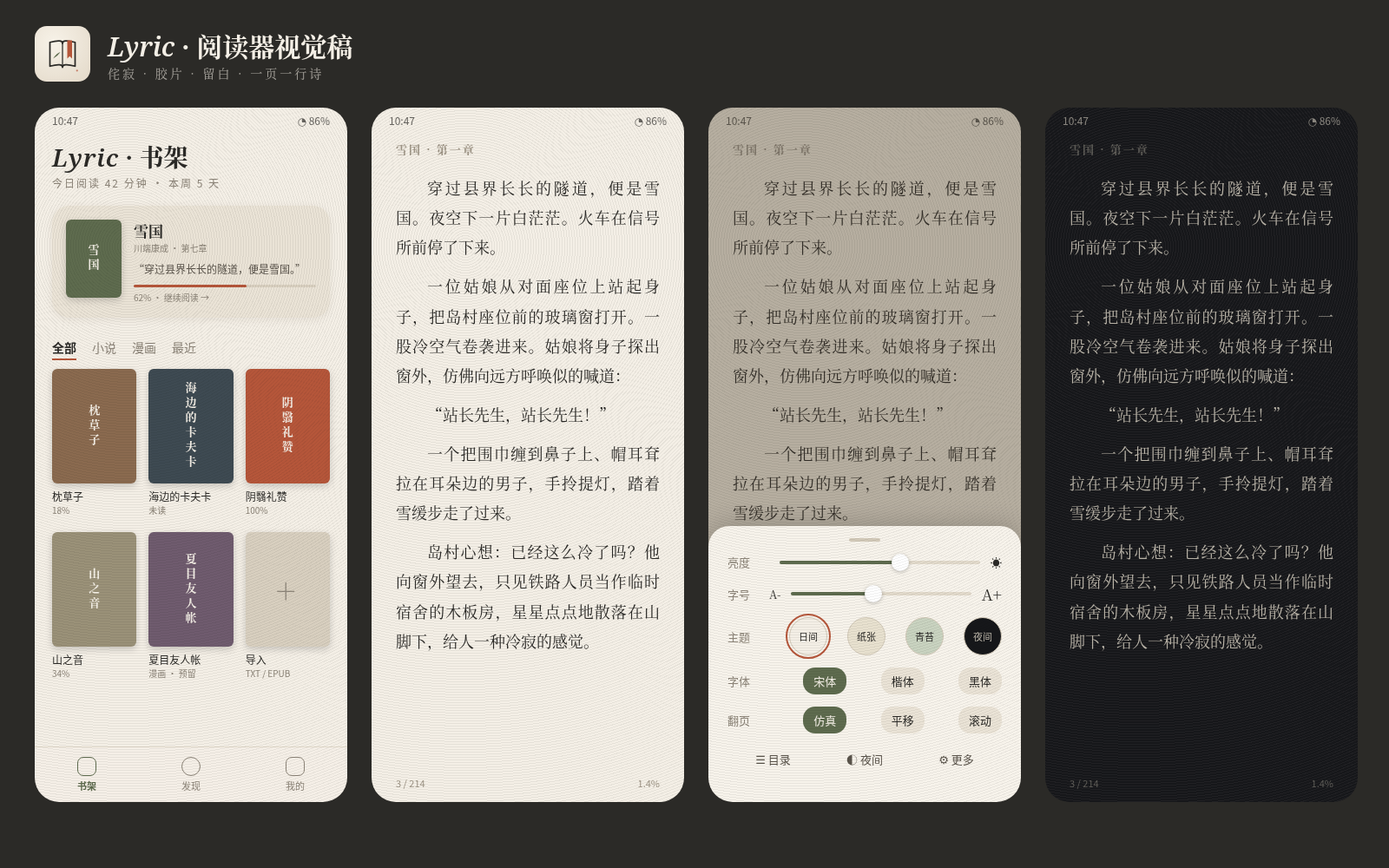
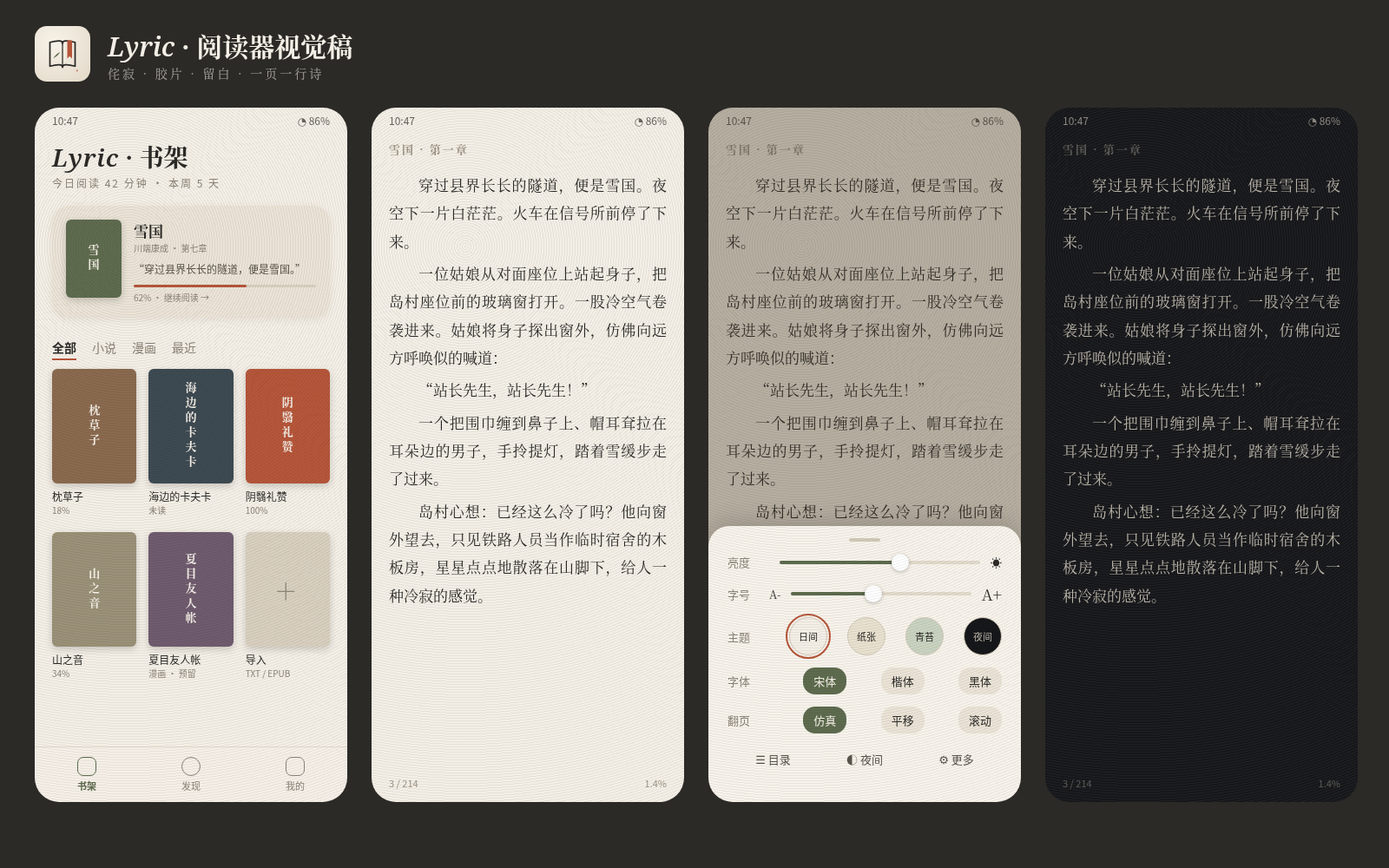
design: 0.4 visual spec and assets

Changed region(s): [[0.75, 0.155, 0.9688, 0.744], [0.2812, 0.155, 0.5, 0.744], [0.5312, 0.155, 0.7188, 0.62]]

diff --git a/design/v0.4/src/curl-backs.html b/design/v0.4/src/curl-backs.html
@@ -1,0 +1,21 @@
+<link rel=stylesheet href=base.css><style>body{width:1160px;height:600px;background:#2B2A27;display:flex;gap:20px;padding:30px 20px}.c{width:275px;height:540px;border-radius:16px;position:relative;overflow:hidden;padding:20px}.l{font:600 13px "Noto Sans CJK SC";margin-bottom:10px}.x{font:17px/1.9 "Noto Serif CJK SC";text-indent:2em;text-align:justify}.k{font:10px/1.6 monospace;position:absolute;bottom:14px;left:20px;right:20px}</style><body><div class=c style="background:#F4EFE6;color:#2B2A27;padding:0"><div class=x style="padding:44px 20px">穿过县界长长的隧道，便是雪国。夜空下一片白茫茫。火车在信号所前停了下来。一位姑娘从对面座位上站起身子，把岛村座位前的玻璃窗打开。穿过县界长长的隧道，便是雪国。夜空下一片白茫茫。火车在信号所前停了下来。一位姑娘从对面座位上站起身子，把岛村座位前的玻璃窗打开。</div>
+<div style="position:absolute;right:0;bottom:0;width:190px;height:300px;background:#F4EFE6;box-shadow:-10px -10px 24px rgba(0,0,0,.18)"></div>
+<div style="position:absolute;right:0;bottom:0;width:0;height:0;border-left:190px solid transparent;border-bottom:300px solid #ECE6DB;filter:drop-shadow(-8px -6px 12px rgba(0,0,0,.18))"></div>
+<div style="position:absolute;right:6px;bottom:20px;width:130px;font:12px/1.8 'Noto Serif CJK SC';color:#2B2A27;opacity:.10;transform:scaleX(-1);clip-path:polygon(100% 100%,0 100%,100% 0)">穿过县界长长的隧道，便是雪国。夜空下一片白茫茫。火车在信号所前停了下来。一位姑娘从对面座位上站起身子，把岛村座位前的玻璃窗打开。</div>
+<div class=l style="position:absolute;top:14px;left:20px;color:#9C9384">日间</div>
+<div class=k style="color:#9C9384;background:#F4EFE6;padding:4px 0;width:120px">纸背 #ECE6DB<br>透印 .10<br>阴影 α.18</div></div><div class=c style="background:#E8E1CF;color:#3A362F;padding:0"><div class=x style="padding:44px 20px">穿过县界长长的隧道，便是雪国。夜空下一片白茫茫。火车在信号所前停了下来。一位姑娘从对面座位上站起身子，把岛村座位前的玻璃窗打开。穿过县界长长的隧道，便是雪国。夜空下一片白茫茫。火车在信号所前停了下来。一位姑娘从对面座位上站起身子，把岛村座位前的玻璃窗打开。</div>
+<div style="position:absolute;right:0;bottom:0;width:190px;height:300px;background:#E8E1CF;box-shadow:-10px -10px 24px rgba(0,0,0,.20)"></div>
+<div style="position:absolute;right:0;bottom:0;width:0;height:0;border-left:190px solid transparent;border-bottom:300px solid #DFD7C3;filter:drop-shadow(-8px -6px 12px rgba(0,0,0,.20))"></div>
+<div style="position:absolute;right:6px;bottom:20px;width:130px;font:12px/1.8 'Noto Serif CJK SC';color:#3A362F;opacity:.10;transform:scaleX(-1);clip-path:polygon(100% 100%,0 100%,100% 0)">穿过县界长长的隧道，便是雪国。夜空下一片白茫茫。火车在信号所前停了下来。一位姑娘从对面座位上站起身子，把岛村座位前的玻璃窗打开。</div>
+<div class=l style="position:absolute;top:14px;left:20px;color:#9C9384">纸张</div>
+<div class=k style="color:#9C9384;background:#E8E1CF;padding:4px 0;width:120px">纸背 #DFD7C3<br>透印 .10<br>阴影 α.20</div></div><div class=c style="background:#C9D3C0;color:#2F3529;padding:0"><div class=x style="padding:44px 20px">穿过县界长长的隧道，便是雪国。夜空下一片白茫茫。火车在信号所前停了下来。一位姑娘从对面座位上站起身子，把岛村座位前的玻璃窗打开。穿过县界长长的隧道，便是雪国。夜空下一片白茫茫。火车在信号所前停了下来。一位姑娘从对面座位上站起身子，把岛村座位前的玻璃窗打开。</div>
+<div style="position:absolute;right:0;bottom:0;width:190px;height:300px;background:#C9D3C0;box-shadow:-10px -10px 24px rgba(0,0,0,.20)"></div>
+<div style="position:absolute;right:0;bottom:0;width:0;height:0;border-left:190px solid transparent;border-bottom:300px solid #BFCAB5;filter:drop-shadow(-8px -6px 12px rgba(0,0,0,.20))"></div>
+<div style="position:absolute;right:6px;bottom:20px;width:130px;font:12px/1.8 'Noto Serif CJK SC';color:#2F3529;opacity:.09;transform:scaleX(-1);clip-path:polygon(100% 100%,0 100%,100% 0)">穿过县界长长的隧道，便是雪国。夜空下一片白茫茫。火车在信号所前停了下来。一位姑娘从对面座位上站起身子，把岛村座位前的玻璃窗打开。</div>
+<div class=l style="position:absolute;top:14px;left:20px;color:#7A8470">青苔</div>
+<div class=k style="color:#7A8470;background:#C9D3C0;padding:4px 0;width:120px">纸背 #BFCAB5<br>透印 .09<br>阴影 α.20</div></div><div class=c style="background:#16171A;color:#B8B2A6;padding:0"><div class=x style="padding:44px 20px">穿过县界长长的隧道，便是雪国。夜空下一片白茫茫。火车在信号所前停了下来。一位姑娘从对面座位上站起身子，把岛村座位前的玻璃窗打开。穿过县界长长的隧道，便是雪国。夜空下一片白茫茫。火车在信号所前停了下来。一位姑娘从对面座位上站起身子，把岛村座位前的玻璃窗打开。</div>
+<div style="position:absolute;right:0;bottom:0;width:190px;height:300px;background:#16171A;box-shadow:-10px -10px 24px rgba(0,0,0,.45)"></div>
+<div style="position:absolute;right:0;bottom:0;width:0;height:0;border-left:190px solid transparent;border-bottom:300px solid #1E1F23;filter:drop-shadow(-8px -6px 12px rgba(0,0,0,.45))"></div>
+<div style="position:absolute;right:6px;bottom:20px;width:130px;font:12px/1.8 'Noto Serif CJK SC';color:#B8B2A6;opacity:.06;transform:scaleX(-1);clip-path:polygon(100% 100%,0 100%,100% 0)">穿过县界长长的隧道，便是雪国。夜空下一片白茫茫。火车在信号所前停了下来。一位姑娘从对面座位上站起身子，把岛村座位前的玻璃窗打开。</div>
+<div class=l style="position:absolute;top:14px;left:20px;color:#5C5A55">夜间</div>
+<div class=k style="color:#5C5A55;background:#16171A;padding:4px 0;width:120px">纸背 #1E1F23<br>透印 .06<br>阴影 α.45</div></div></body>

diff --git a/design/v0.4/src/selection-palette.html b/design/v0.4/src/selection-palette.html
@@ -1,0 +1,9 @@
+<link rel=stylesheet href=base.css><style>body{width:1160px;height:600px;background:#2B2A27;display:flex;gap:20px;padding:30px 20px}.c{width:275px;height:540px;border-radius:16px;position:relative;overflow:hidden;padding:20px}.l{font:600 13px "Noto Sans CJK SC";margin-bottom:10px}.x{font:17px/1.9 "Noto Serif CJK SC";text-indent:2em;text-align:justify}.k{font:10px/1.6 monospace;position:absolute;bottom:14px;left:20px;right:20px}</style><body><div class=c style="background:#F4EFE6;color:#2B2A27"><div class=l style="color:#9C9384">日间</div><div class=x style="position:relative;margin-top:60px">穿过县界长长的隧道，便是雪国<span style="background:rgba(181,86,58,.22);position:relative">。夜空下一片白茫茫。<i style="position:absolute;left:-6px;top:24px;width:12px;height:12px;border-radius:50% 0 50% 50%;background:#B5563A"></i><i style="position:absolute;right:-6px;top:24px;width:12px;height:12px;border-radius:0 50% 50% 50%;background:#B5563A"></i></span>火车在信号所前停了下来。一位姑娘从对面座位上站起身子，把岛村座位前的玻璃窗打开。
+<div style="position:absolute;top:-48px;left:70px;background:#2B2A27;color:#F4EFE6;font:13px 'Noto Sans CJK SC';border-radius:10px;padding:8px 14px;display:flex;gap:18px;text-indent:0;box-shadow:0 4px 14px rgba(0,0,0,.22)"><span>复制</span><span>摘录</span><span>分享</span></div></div>
+<div class=k style="color:#9C9384">选区 rgba(181,86,58,.22)<br>手柄 #B5563A · 22dp 触区<br>菜单 #2B2A27 / 字 #F4EFE6</div></div><div class=c style="background:#E8E1CF;color:#3A362F"><div class=l style="color:#9C9384">纸张</div><div class=x style="position:relative;margin-top:60px">穿过县界长长的隧道，便是雪国<span style="background:rgba(181,86,58,.24);position:relative">。夜空下一片白茫茫。<i style="position:absolute;left:-6px;top:24px;width:12px;height:12px;border-radius:50% 0 50% 50%;background:#A84E33"></i><i style="position:absolute;right:-6px;top:24px;width:12px;height:12px;border-radius:0 50% 50% 50%;background:#A84E33"></i></span>火车在信号所前停了下来。一位姑娘从对面座位上站起身子，把岛村座位前的玻璃窗打开。
+<div style="position:absolute;top:-48px;left:70px;background:#3A362F;color:#F4EFE6;font:13px 'Noto Sans CJK SC';border-radius:10px;padding:8px 14px;display:flex;gap:18px;text-indent:0;box-shadow:0 4px 14px rgba(0,0,0,.22)"><span>复制</span><span>摘录</span><span>分享</span></div></div>
+<div class=k style="color:#9C9384">选区 rgba(181,86,58,.24)<br>手柄 #A84E33 · 22dp 触区<br>菜单 #3A362F / 字 #F4EFE6</div></div><div class=c style="background:#C9D3C0;color:#2F3529"><div class=l style="color:#7A8470">青苔</div><div class=x style="position:relative;margin-top:60px">穿过县界长长的隧道，便是雪国<span style="background:rgba(168,78,51,.26);position:relative">。夜空下一片白茫茫。<i style="position:absolute;left:-6px;top:24px;width:12px;height:12px;border-radius:50% 0 50% 50%;background:#9E4A31"></i><i style="position:absolute;right:-6px;top:24px;width:12px;height:12px;border-radius:0 50% 50% 50%;background:#9E4A31"></i></span>火车在信号所前停了下来。一位姑娘从对面座位上站起身子，把岛村座位前的玻璃窗打开。
+<div style="position:absolute;top:-48px;left:70px;background:#2F3529;color:#E9EDE3;font:13px 'Noto Sans CJK SC';border-radius:10px;padding:8px 14px;display:flex;gap:18px;text-indent:0;box-shadow:0 4px 14px rgba(0,0,0,.22)"><span>复制</span><span>摘录</span><span>分享</span></div></div>
+<div class=k style="color:#7A8470">选区 rgba(168,78,51,.26)<br>手柄 #9E4A31 · 22dp 触区<br>菜单 #2F3529 / 字 #E9EDE3</div></div><div class=c style="background:#16171A;color:#B8B2A6"><div class=l style="color:#5C5A55">夜间</div><div class=x style="position:relative;margin-top:60px">穿过县界长长的隧道，便是雪国<span style="background:rgba(224,138,110,.28);position:relative">。夜空下一片白茫茫。<i style="position:absolute;left:-6px;top:24px;width:12px;height:12px;border-radius:50% 0 50% 50%;background:#E08A6E"></i><i style="position:absolute;right:-6px;top:24px;width:12px;height:12px;border-radius:0 50% 50% 50%;background:#E08A6E"></i></span>火车在信号所前停了下来。一位姑娘从对面座位上站起身子，把岛村座位前的玻璃窗打开。
+<div style="position:absolute;top:-48px;left:70px;background:#2A2B2F;color:#D0CABE;font:13px 'Noto Sans CJK SC';border-radius:10px;padding:8px 14px;display:flex;gap:18px;text-indent:0;box-shadow:0 4px 14px rgba(0,0,0,.22)"><span>复制</span><span>摘录</span><span>分享</span></div></div>
+<div class=k style="color:#5C5A55">选区 rgba(224,138,110,.28)<br>手柄 #E08A6E · 22dp 触区<br>菜单 #2A2B2F / 字 #D0CABE</div></div></body>

diff --git a/design/v0.4/src/shelf-mixed.html b/design/v0.4/src/shelf-mixed.html
@@ -1,0 +1,25 @@
+<html><head><link rel=stylesheet href=base.css><style>
+h1{font:600 28px "Noto Serif CJK SC";padding:8px 20px 2px}h1 em{font-family:"Noto Serif",serif}
+.sub{padding:0 20px;font-size:12px;color:#8C8478;letter-spacing:2px}
+.tabs{display:flex;gap:24px;padding:20px 20px 6px;font-size:14px;color:#8C8478}.tabs span{position:relative}.tabs b{color:#2B2A27;font-weight:600;position:relative}.tabs b:after{content:"";position:absolute;left:50%;margin-left:-2.5px;bottom:-9px;width:5px;height:5px;border-radius:50%;background:#B5563A}.n{font-size:10px;margin-left:2px;color:#B0A898}
+.grid{display:grid;grid-template-columns:repeat(3,1fr);gap:18px 14px;padding:14px 20px}
+.cv{width:100%;height:130px;border-radius:6px;box-shadow:0 3px 8px rgba(0,0,0,.18);display:flex;align-items:center;justify-content:center;color:#F4EFE6;font:600 13px "Noto Serif CJK SC";writing-mode:vertical-rl;letter-spacing:4px;position:relative;overflow:hidden}
+.cm{background:linear-gradient(160deg,#E9E3D8,#BDB3A2);color:#2B2A27}.cm:before{content:"";position:absolute;inset:8px;border:1.5px solid #2B2A27;opacity:.5;background:linear-gradient(#0000 48%,#2B2A2766 48% 50%,#0000 50%)}
+.ph{background:#EAE3D6;color:#5A544B;box-shadow:none;border:1px solid #E2DACB}.ph:before{content:"";position:absolute;inset:6px;border:1px solid #D2C9B8;border-radius:3px}
+.tag{position:absolute;top:6px;right:6px;writing-mode:horizontal-tb;font:500 9px "Noto Sans CJK SC";letter-spacing:0;color:#F4EFE6;background:#B5563A;border-radius:3px;padding:1px 4px}
+.t{font-size:12px;margin-top:6px;white-space:nowrap;overflow:hidden;text-overflow:ellipsis}.p{font-size:10px;color:#8C8478}
+.nav{position:absolute;bottom:0;left:0;right:0;height:64px;background:#F4EFE6ee;border-top:1px solid #E2DACB;display:flex;justify-content:space-around;align-items:center;font-size:11px;color:#8C8478}.nav div{text-align:center}.nav .on{color:#5E6B4E;font-weight:600}.d{width:22px;height:22px;margin:0 auto 3px;border:1.6px solid currentColor;border-radius:7px}
+</style></head><body><div class=status><span>21:34</span><span>◔ 86%</span></div>
+<h1><em>Lyric</em> · 书架</h1><div class=sub>共 9 本 · 文字 6 · 漫画 3</div>
+<div class=tabs><b>全部</b><span>文字<i class=n>6</i></span><span>漫画<i class=n>3</i></span></div>
+<div class=grid>
+<div><div class=cv style="background:#5E6B4E">雪国</div><div class=t>雪国</div><div class=p>62%</div></div>
+<div><div class="cv cm"><span class=tag>漫</span><span style="position:relative;background:#F2EEE6;padding:4px 2px">夏目友人帐</span></div><div class=t>夏目友人帐 · 3</div><div class=p>12 / 186 页</div></div>
+<div><div class=cv style="background:#B5563A">阴翳礼赞</div><div class=t>阴翳礼赞</div><div class=p>100%</div></div>
+<div><div class="cv ph">山之音</div><div class=t>山之音</div><div class=p>无封面 · 34%</div></div>
+<div><div class="cv ph"><span class=tag>漫</span>虫师</div><div class=t>虫师 · 1</div><div class=p>无封面 · 未读</div></div>
+<div><div class=cv style="background:#3E4A52">海边的卡夫卡</div><div class=t>海边的卡夫卡</div><div class=p>未读</div></div>
+<div><div class="cv cm"><span class=tag>条</span><span style="position:relative;background:#F2EEE6;padding:4px 2px">独自升级</span></div><div class=t>独自升级</div><div class=p>条漫 · 40%</div></div>
+<div><div class=cv style="background:#8A6A4F">枕草子</div><div class=t>枕草子</div><div class=p>18%</div></div>
+<div><div class=cv style="background:#D8CFBF;color:#8C8478;writing-mode:horizontal-tb;font-size:26px;box-shadow:none">＋</div><div class=t>导入</div><div class=p>TXT / EPUB / CBZ</div></div>
+</div><div class=nav><div class=on><div class=d></div>书架</div><div><div class=d style="border-radius:50%"></div>本地导入</div><div><div class=d></div>我的</div></div><div class=grain></div></body></html>

diff --git a/design/src/reader-settings.html b/design/src/reader-settings.html
@@ -1,5 +1,5 @@
 <html><head><link rel=stylesheet href=base.css><style>
-body{background:#E8E1CF;color:#3A362F}.ch{font:600 13px "Noto Serif CJK SC";color:#9C9384;padding:10px 28px 0;letter-spacing:2px}
-.txt{font:18px/1.9 "Noto Serif CJK SC";padding:18px 28px;text-align:justify}.txt p{text-indent:2em;margin-bottom:.6em}
-.foot{position:absolute;bottom:14px;left:28px;right:28px;display:flex;justify-content:space-between;font-size:11px;color:#9C9384}
+body{background:#E8E1CF;color:#3A362F}.ch{font:600 13px "Noto Serif CJK SC";color:#9C9384;padding:10px 20px 0;letter-spacing:2px}
+.txt{font:17px/1.9 "Noto Serif CJK SC";padding:16px 20px;text-align:justify}.txt p{text-indent:2em;margin-bottom:.3em}
+.foot{position:absolute;bottom:14px;left:20px;right:20px;display:flex;justify-content:space-between;font-size:11px;color:#9C9384}
 .mask{position:absolute;inset:0;background:rgba(30,25,20,.25)}.panel{position:absolute;bottom:0;left:0;right:0;background:#F7F3EB;border-radius:24px 24px 0 0;padding:14px 22px 26px;box-shadow:0 -6px 24px rgba(0,0,0,.15);color:#2B2A27;font-size:13px}.h{width:36px;height:4px;background:#D2C9B8;border-radius:2px;margin:0 auto 14px}.row{display:flex;align-items:center;justify-content:space-between;margin:14px 0}.lb{color:#8C8478;width:48px}.sl{flex:1;height:4px;background:#E2DACB;border-radius:2px;position:relative;margin:0 12px}.sl i{position:absolute;left:0;top:0;height:4px;background:#5E6B4E;border-radius:2px}.sl b{position:absolute;top:-8px;width:20px;height:20px;border-radius:50%;background:#fff;box-shadow:0 1px 4px rgba(0,0,0,.25)}.sw{width:44px;height:44px;border-radius:50%;border:1px solid #D2C9B8;display:flex;align-items:center;justify-content:center;font-size:11px}.on{outline:2px solid #B5563A;outline-offset:2px}.chip{padding:6px 12px;border-radius:14px;background:#EAE3D6}.chip.a{background:#5E6B4E;color:#F4EFE6}</style></head><body><div class=status><span>10:47</span><span>◔ 86%</span></div><div class=ch>雪国 · 第一章</div><div class=txt><p>穿过县界长长的隧道，便是雪国。夜空下一片白茫茫。火车在信号所前停了下来。</p><p>一位姑娘从对面座位上站起身子，把岛村座位前的玻璃窗打开。一股冷空气卷袭进来。姑娘将身子探出窗外，仿佛向远方呼唤似的喊道：</p><p>“站长先生，站长先生！”</p><p>一个把围巾缠到鼻子上、帽耳耷拉在耳朵边的男子，手拎提灯，踏着雪缓步走了过来。</p><p>岛村心想：已经这么冷了吗？他向窗外望去，只见铁路人员当作临时宿舍的木板房，星星点点地散落在山脚下，给人一种冷寂的感觉。</p></div><div class=foot><span>3 / 214</span><span>1.4%</span></div><div class=mask></div><div class=panel><div class=h></div><div class=row><span class=lb>亮度</span><div class=sl><i style="width:60%"></i><b style="left:56%"></b></div><span>☀</span></div><div class=row><span class=lb>字号</span><span class=serif>A-</span><div class=sl><i style="width:45%"></i><b style="left:41%"></b></div><span class=serif style="font-size:18px">A+</span></div><div class=row><span class=lb>主题</span><div class="sw on" style="background:#F4EFE6">日间</div><div class=sw style="background:#E8E1CF">纸张</div><div class=sw style="background:#C9D3C0">青苔</div><div class=sw style="background:#16171A;color:#B8B2A6">夜间</div></div><div class=row><span class=lb>字体</span><span class="chip a">宋体</span><span class=chip>楷体</span><span class=chip>黑体</span></div><div class=row><span class=lb>翻页</span><span class="chip a">仿真</span><span class=chip>平移</span><span class=chip>滚动</span></div><div class=row style="justify-content:space-around;color:#5A544B;margin-top:20px"><span>☰ 目录</span><span>◐ 夜间</span><span>⚙ 更多</span></div></div><div class=grain></div></body></html>

diff --git a/design/v0.4/src/comic-directions.html b/design/v0.4/src/comic-directions.html
@@ -1,0 +1,10 @@
+<html><head><link rel=stylesheet href=base.css><link rel=stylesheet href=comic.css><style>body{width:1160px;height:860px;background:#2B2A27;display:flex;gap:40px;padding:30px 20px}.w{position:relative}.cap{color:#F4EFE6;font:13px "Noto Sans CJK SC";margin-bottom:8px;opacity:.75}</style></head><body>
+<div class=w><div class=cap>① 唤出界面层（右→左，默认）</div><div class=ph><div class=pg><div class="pn a"></div><div class="pn b"></div><div class=pn></div><div class=pn></div><div class="pn b"></div></div>
+<div class=top><span style="font-size:20px">‹</span><div style="flex:1"><div>夏目友人帐</div><div style="font-size:11px;color:#8E897F">第 3 话 · 妖怪的名字</div></div><span style="color:#D0CABE;margin-right:16px"><svg class=ic viewBox="0 0 24 24" fill=none stroke=currentColor stroke-width=1.6 stroke-linecap=round stroke-linejoin=round><rect x=3 y=5 width=8 height=12 rx="1.5"/><rect x=13 y=5 width=8 height=12 rx="1.5"/><path d="M16 21H8m2-2-2 2 2 2"/></svg></span></div>
+<div class=bot><div style="display:flex;justify-content:space-between"><span>186</span><span style="color:#D0CABE">12 / 186</span><span>1</span></div><div class=trk><i></i><b></b></div><div style="display:flex;justify-content:space-around;color:#D0CABE;font-size:11px"><span>☰ 章节</span><span><svg class=ic viewBox="0 0 24 24" fill=none stroke=currentColor stroke-width=1.6 stroke-linecap=round stroke-linejoin=round><rect x=3 y=5 width=8 height=12 rx="1.5"/><rect x=13 y=5 width=8 height=12 rx="1.5"/><path d="M16 21H8m2-2-2 2 2 2"/></svg></span><span>◐ 亮度</span><span>⚙ 设置</span></div></div></div></div>
+<div class=w><div class=cap>② 首次提示 · 右→左</div><div class=ph><div class=pg><div class="pn a"></div><div class="pn b"></div><div class=pn></div><div class=pn></div><div class="pn b"></div></div><div class=zone style="left:0"></div><div class=hint><span style="color:#E08A6E"><svg class=ic viewBox="0 0 24 24" fill=none stroke=currentColor stroke-width=1.6 stroke-linecap=round stroke-linejoin=round><rect x=3 y=5 width=8 height=12 rx="1.5"/><rect x=13 y=5 width=8 height=12 rx="1.5"/><path d="M16 21H8m2-2-2 2 2 2"/></svg></span>从右往左读 · 点左侧翻下一页</div></div></div>
+<div class=w><div class=cap>③ 首次提示 · 左→右 / 条漫</div><div class=ph style="background:#111">
+<div style="position:absolute;inset:0;display:flex;flex-direction:column;gap:0"><div class="pn a" style="height:300px;border:0"></div><div class="pn b" style="height:260px;border:0"></div><div class=pn style="height:260px;border:0"></div></div>
+<div class=hint style="bottom:96px"><span style="color:#D0CABE"><svg class=ic viewBox="0 0 24 24" fill=none stroke=currentColor stroke-width=1.6 stroke-linecap=round stroke-linejoin=round><rect x=3 y=5 width=8 height=12 rx="1.5"/><rect x=13 y=5 width=8 height=12 rx="1.5"/><path d="M8 21h8m-2-2 2 2-2 2"/></svg></span>左→右：点右侧翻下一页</div>
+<div class=hint><span style="color:#E08A6E"><svg class=ic viewBox="0 0 24 24" fill=none stroke=currentColor stroke-width=1.6 stroke-linecap=round stroke-linejoin=round><rect x=7 y=2 width=10 height=8 rx="1.5"/><rect x=7 y=12 width=10 height=8 rx="1.5"/><path d="M20 9v8m-2-2 2 2 2-2"/></svg></span>条漫 · 向上滑动连续阅读</div></div></div>
+</body></html>

diff --git a/design/v0.4/src/comic-states.html b/design/v0.4/src/comic-states.html
@@ -1,0 +1,10 @@
+<html><head><link rel=stylesheet href=base.css><link rel=stylesheet href=comic.css><style>body{width:1160px;height:860px;background:#2B2A27;display:flex;gap:40px;padding:30px 20px}.cap{color:#F4EFE6;font:13px "Noto Sans CJK SC";margin-bottom:8px;opacity:.75}
+.sk{position:absolute;left:0;right:0;top:110px;height:540px;background:#1A1A1D;padding:10px;display:grid;grid-template:1fr 1.3fr 1fr/1fr 1fr;gap:6px}.sk div{background:rgba(255,255,255,.06);border-radius:2px}
+</style></head><body>
+<div><div class=cap>① 加载：骨架（>300ms 才出现）</div><div class=ph><div class=sk><div style="grid-column:span 2"></div><div></div><div></div><div></div><div></div></div><div style="position:absolute;left:0;top:648px;height:2px;width:42%;background:#E08A6E;opacity:.7"></div><div class=lab style="top:670px">12 / 186</div></div></div>
+<div><div class=cap>② 缩放 2.0×：低清预览 + 分块补清</div><div class=ph><div style="position:absolute;inset:-200px -180px;transform:scale(1);"><div class=pg style="top:80px;height:1080px;left:0;right:0;filter:blur(0)"><div class="pn a"></div><div class="pn b"></div><div class=pn></div><div class=pn></div><div class="pn b"></div></div></div><div style="position:absolute;left:180px;top:300px;width:180px;height:180px;backdrop-filter:blur(3px);background:rgba(17,17,17,.04)"></div><div style="position:absolute;right:12px;top:40px;padding:4px 10px;border-radius:12px;background:rgba(17,17,17,.88);color:#D0CABE;font-size:11px">2.0×</div><div style="position:absolute;right:12px;bottom:24px;width:56px;height:76px;border:1px solid #45444A;background:rgba(17,17,17,.7)"><div style="margin:14px 0 0 18px;width:26px;height:34px;border:1.5px solid #E08A6E"></div></div></div></div>
+<div><div class=cap>③ 解码失败：错误态</div><div class=ph><div style="position:absolute;left:20px;right:20px;top:150px;height:460px;border:1px dashed #45444A;border-radius:6px;background:#1A1A1D;display:flex;flex-direction:column;align-items:center;justify-content:center;color:#8E897F;font-size:12px">
+<svg width=36 height=36 viewBox="0 0 24 24" fill=none stroke="#8E897F" stroke-width=1.4 stroke-linecap=round><rect x=3 y=4 width=18 height=16 rx="2"/><path d="M3 15l5-5 4 4M14 12l2-2 5 5M13 4l-2 6 3 2-2 8"/></svg>
+<div style="color:#D0CABE;font:15px 'Noto Serif CJK SC';margin:14px 0 6px">这一页没能打开</div><div>p012.webp · 图片数据损坏</div>
+<div style="display:flex;gap:12px;margin-top:22px"><span style="padding:7px 18px;border-radius:16px;border:1px solid #E08A6E;color:#E08A6E">重试</span><span style="padding:7px 18px;border-radius:16px;border:1px solid #45444A;color:#D0CABE">跳过此页</span></div></div><div class=lab style="top:640px">12 / 186</div></div></div>
+</body></html>

diff --git a/design/src/reader-night.html b/design/src/reader-night.html
@@ -1,5 +1,5 @@
 <html><head><link rel=stylesheet href=base.css><style>
-body{background:#16171A;color:#B8B2A6}.ch{font:600 13px "Noto Serif CJK SC";color:#5C5A55;padding:10px 28px 0;letter-spacing:2px}
-.txt{font:18px/1.9 "Noto Serif CJK SC";padding:18px 28px;text-align:justify}.txt p{text-indent:2em;margin-bottom:.6em}
-.foot{position:absolute;bottom:14px;left:28px;right:28px;display:flex;justify-content:space-between;font-size:11px;color:#5C5A55}
+body{background:#16171A;color:#B8B2A6}.ch{font:600 13px "Noto Serif CJK SC";color:#5C5A55;padding:10px 20px 0;letter-spacing:2px}
+.txt{font:17px/1.9 "Noto Serif CJK SC";padding:16px 20px;text-align:justify}.txt p{text-indent:2em;margin-bottom:.3em}
+.foot{position:absolute;bottom:14px;left:20px;right:20px;display:flex;justify-content:space-between;font-size:11px;color:#5C5A55}
 .grain{opacity:.04;filter:invert(1)}</style></head><body><div class=status><span>10:47</span><span>◔ 86%</span></div><div class=ch>雪国 · 第一章</div><div class=txt><p>穿过县界长长的隧道，便是雪国。夜空下一片白茫茫。火车在信号所前停了下来。</p><p>一位姑娘从对面座位上站起身子，把岛村座位前的玻璃窗打开。一股冷空气卷袭进来。姑娘将身子探出窗外，仿佛向远方呼唤似的喊道：</p><p>“站长先生，站长先生！”</p><p>一个把围巾缠到鼻子上、帽耳耷拉在耳朵边的男子，手拎提灯，踏着雪缓步走了过来。</p><p>岛村心想：已经这么冷了吗？他向窗外望去，只见铁路人员当作临时宿舍的木板房，星星点点地散落在山脚下，给人一种冷寂的感觉。</p></div><div class=foot><span>3 / 214</span><span>1.4%</span></div><div class=grain></div></body></html>

diff --git a/design/src/reader-day.html b/design/src/reader-day.html
@@ -1,5 +1,5 @@
 <html><head><link rel=stylesheet href=base.css><style>
-body{background:#F4EFE6;color:#2B2A27}.ch{font:600 13px "Noto Serif CJK SC";color:#9C9384;padding:10px 28px 0;letter-spacing:2px}
-.txt{font:18px/1.9 "Noto Serif CJK SC";padding:18px 28px;text-align:justify}.txt p{text-indent:2em;margin-bottom:.6em}
-.foot{position:absolute;bottom:14px;left:28px;right:28px;display:flex;justify-content:space-between;font-size:11px;color:#9C9384}
+body{background:#F4EFE6;color:#2B2A27}.ch{font:600 13px "Noto Serif CJK SC";color:#9C9384;padding:10px 20px 0;letter-spacing:2px}
+.txt{font:17px/1.9 "Noto Serif CJK SC";padding:16px 20px;text-align:justify}.txt p{text-indent:2em;margin-bottom:.3em}
+.foot{position:absolute;bottom:14px;left:20px;right:20px;display:flex;justify-content:space-between;font-size:11px;color:#9C9384}
 </style></head><body><div class=status><span>10:47</span><span>◔ 86%</span></div><div class=ch>雪国 · 第一章</div><div class=txt><p>穿过县界长长的隧道，便是雪国。夜空下一片白茫茫。火车在信号所前停了下来。</p><p>一位姑娘从对面座位上站起身子，把岛村座位前的玻璃窗打开。一股冷空气卷袭进来。姑娘将身子探出窗外，仿佛向远方呼唤似的喊道：</p><p>“站长先生，站长先生！”</p><p>一个把围巾缠到鼻子上、帽耳耷拉在耳朵边的男子，手拎提灯，踏着雪缓步走了过来。</p><p>岛村心想：已经这么冷了吗？他向窗外望去，只见铁路人员当作临时宿舍的木板房，星星点点地散落在山脚下，给人一种冷寂的感觉。</p></div><div class=foot><span>3 / 214</span><span>1.4%</span></div><div class=grain></div></body></html>

diff --git a/design/v0.4/src/comic.css b/design/v0.4/src/comic.css
@@ -1,0 +1,12 @@
+.ph{width:360px;height:800px;position:relative;overflow:hidden;background:#111;border-radius:0;flex:none}
+.pg{position:absolute;left:0;right:0;top:110px;height:540px;background:#F2EEE6;display:grid;grid-template:1fr 1.3fr 1fr/1fr 1fr;gap:6px;padding:10px}
+.pn{border:2px solid #222;background:linear-gradient(160deg,#E9E3D8,#CFC6B6)}
+.pn.a{grid-column:span 2;background:radial-gradient(circle at 70% 40%,#3a3a3a 0 18%,transparent 19%),linear-gradient(#DCD4C6,#BDB3A2)}
+.pn.b{background:repeating-linear-gradient(115deg,#d9d2c5 0 3px,#efe9df 3px 9px)}
+.top{position:absolute;top:0;left:0;right:0;height:84px;padding-top:28px;background:rgba(17,17,17,.88);display:flex;align-items:center;gap:14px;padding-left:16px;color:#D0CABE;font-size:15px}
+.bot{position:absolute;bottom:0;left:0;right:0;height:120px;background:rgba(17,17,17,.88);padding:16px 20px;color:#8E897F;font-size:12px}
+.trk{height:2px;background:#3A3A3E;margin:14px 0;position:relative}.trk i{position:absolute;right:0;top:0;height:2px;width:7%;background:#E08A6E}.trk b{position:absolute;right:7%;top:-5px;width:12px;height:12px;margin-right:-6px;border-radius:50%;background:#E08A6E}
+.ic{width:24px;height:24px}
+.hint{position:absolute;left:50%;transform:translateX(-50%);bottom:56px;height:32px;padding:0 16px;border-radius:16px;background:rgba(17,17,17,.88);color:#D0CABE;font-size:12px;display:flex;align-items:center;gap:8px;white-space:nowrap}
+.zone{position:absolute;top:0;bottom:0;width:30%;background:rgba(255,255,255,.08)}
+.lab{position:absolute;top:8px;left:0;right:0;text-align:center;color:#8E897F;font-size:11px;letter-spacing:2px}

diff --git a/design/v0.4/src/base.css b/design/v0.4/src/base.css
@@ -1,0 +1,5 @@
+*{box-sizing:border-box;margin:0;padding:0}
+body{width:360px;height:800px;overflow:hidden;font-family:"Noto Sans CJK SC",sans-serif;background:#F4EFE6;color:#2B2A27}
+.grain{position:absolute;inset:0;pointer-events:none;opacity:.06;background:repeating-radial-gradient(circle at 30% 20%,#000 0 1px,transparent 1px 3px)}
+.status{height:28px;display:flex;justify-content:space-between;padding:6px 20px;font-size:12px;opacity:.7}
+.serif{font-family:"Noto Serif CJK SC",serif}

diff --git a/design/v0.4-visual.md b/design/v0.4-visual.md
@@ -1,0 +1,60 @@
+# Lyric 0.4 视觉方案（美术）
+
+> 核对 0.3.4：`ReaderTheme` 共 6 套预设（日间 PAPER / 纸张 BEIGE / 青苔 MOSS / 夜间 NIGHT / 深绿 GREEN / 纯黑 BLACK）+ 自定 CUSTOM；设置面板只露出前四套。需求文档 MVP 写“4 套：纸白/米黄/墨绿/纯黑”，与代码命名不一致——本方案以面板四套为主，深绿/纯黑附参数。默认排版代码已是 17sp / 0.3em / 20dp。
+> 视觉稿：`design/v0.4/*.png`，源码 `design/v0.4/src/`。
+
+## 1 漫画阅读页界面层（comic-directions.png ①）
+- **黑底沉浸**：画布 `#111111`（不用纯黑，和纸色漫画页有柔和边界）；纸色界面会与漫画白边抢视觉。
+- 界面层默认隐藏，点中区 1/3 唤出；顶/底栏底色 `#111111` @88%（`0xE0111111`），淡入 200ms / 淡出 160ms，FastOutSlowIn；3 秒无操作不自动收起（阅读者主导）。
+- 顶栏 56dp + 状态栏：返回、书名 15sp `#D0CABE`、话名 11sp `#8E897F`，右侧当前方向图标 24dp。
+- 底栏 120dp：页码 `12 / 186` 12sp 等宽数字 `#D0CABE` 居中；两端总页/1 页 11sp `#8E897F`；进度轨 2dp `#3A3A3E`，已读 `#E08A6E`，拇指 12dp 圆 `#E08A6E`（拖动时放大到 16dp，上方浮出 12sp 页码气泡）。**右→左时进度条镜像**（起点在右）。下排：章节 / 方向 / 亮度 / 设置，图标 24dp、触区 48dp。
+- 隐藏态可选“角落页码”（默认关）：10sp `#8E897F` @60%，右下 12dp。
+
+## 2 阅读方向图标与首次提示（comic-directions.png ②③）
+- 图标 24dp 栅格、1.6dp 线、圆端：右→左＝两页框 + 底部左向箭头；左→右＝两页框 + 右向箭头；条漫＝上下两格 + 右侧下向箭头。默认态 `#D0CABE`，当前/提示中强调 `#E08A6E`。
+- 首次提示：每本书每种方向首次进入时出现一次；底部居中药丸 32dp 高、圆角 16dp、`#111111`@88%、12sp `#D0CABE`，距底 56dp，文案：“从右往左读 · 点左侧翻下一页”/“左→右：点右侧翻下一页”/“条漫 · 向上滑动连续阅读”。
+- 同时“下一页”点击区亮起白色 8% 蒙层 1.2s（条漫不显示），药丸 2.4s 后 300ms 淡出；任何触摸立即消失。不弹对话框、不加遮罩。
+
+## 3 书架混排（shelf-mixed.png）
+- 统一 3 列，格子 3:4（360dp 宽屏下约 97×130dp），列距 14dp、行距 18dp、边距 20dp，行高恒定不跳。
+- 文字书封面 2:3 以 `ContentScale.Crop` 顶部对齐裁入 3:4（损失约 11%，书名区通常在上）；漫画封面 3:4 Crop 居中。圆角 6dp，阴影 0/3/8 黑 18%。
+- 类型角标：右上 6dp，朱红 `#B5563A` 底、`#F4EFE6` 9sp 字，“漫”/“条”，圆角 3dp；文字书无角标。漫画副标题显示“12 / 186 页”。
+- 无封面占位：底 `#EAE3D6`，1dp 外框 `#E2DACB`，内缩 6dp 再一道 1dp `#D2C9B8` 细框（像书帙），竖排书名 13sp 思源宋体 SemiBold `#5A544B`，无阴影。0.3 已有的六色色块仍用于有标题无图的文字书生成封面。
+
+## 4「全部 / 文字 / 漫画」切换
+- 纯文字 + **朱红印点**：14sp，未选 `#8C8478`，选中 `#2B2A27` SemiBold，下方 9dp 处 5dp 圆点 `#B5563A`；项距 24dp；数字角标 10sp `#B0A898`（“全部”不显示）。
+- 切换：圆点水平滑动 220ms spring(0.9)，文字颜色 150ms 交叉；网格内容淡入 180ms，不做横向滑页。触区 48dp。
+
+## 5 漫画大图状态（comic-states.png）
+- **加载**：先用文件头读出宽高占位，避免跳动；加载 >300ms 才显示骨架：底 `#1A1A1D`，块面 白 6%，呼吸 6%↔9% 1600ms 循环（无流光、无转圈）；>1s 在图片底边显示 2dp `#E08A6E`@70% 进度线。
+- **缩放**：双击 1×→2×（再双击回 1×），250ms；双指 1–4×，到边界 0.3 阻尼回弹。缩放时先放大低清采样图，分块高清 150ms 淡入替换；>1× 时右下出现 56×76dp 小地图（`#111111`@70%，可视框 1.5dp `#E08A6E`），停止操作 1.2s 后淡出；右上倍率药丸 11sp。
+- **错误**：在占位区（宽 = 屏宽-40dp，条漫高 = 宽×1.4）画 1dp 虚线框 `#45444A`、圆角 6dp、底 `#1A1A1D`；36dp 破图线稿 `#8E897F`；标题“这一页没能打开”15sp 宋体 `#D0CABE`；原因 12sp `#8E897F`（文件名 · 原因）；按钮“重试”(朱红描边 `#E08A6E`) /“跳过此页”(描边 `#45444A`)，32dp 高、圆角 16dp。翻页手势不被拦截。
+
+## 6 选词配色（selection-palette.png）
+手柄：12dp 水滴形（触区 22dp→实际 48dp 透明命中），菜单：圆角 10dp、内距 8/14dp、13sp、项距 18dp、阴影 0/4/14 黑 22%，距选区上方 8dp（顶部不够时放下方）。
+| 主题 | 选区 | 手柄 | 菜单底 / 字 |
+|---|---|---|---|
+| 日间 #F4EFE6 | #B5563A @22% | #B5563A | #2B2A27 / #F4EFE6 |
+| 纸张 #E8E1CF | #B5563A @24% | #A84E33 | #3A362F / #F4EFE6 |
+| 青苔 #C9D3C0 | #A84E33 @26% | #9E4A31 | #2F3529 / #E9EDE3 |
+| 夜间 #16171A | #E08A6E @28% | #E08A6E | #2A2B2F / #D0CABE |
+| 深绿 #182820 | #E08A6E @26% | #D9826A | #24362C / #D5DDD0 |
+| 纯黑 #000000 | #E08A6E @30% | #E08A6E | #1E1F23 / #D0CABE |
+| 自定 | accent @24% | accent | ink / bg |
+出现动画：选区 120ms 淡入，菜单 160ms 缩放 0.96→1 + 淡入。
+
+## 7 仿真翻页纸背（curl-backs.png）
+透印＝把当前页文字镜像后以 ink 色、下表透明度画在纸背；阴影分两层：卷边投影（沿折线外侧 24dp 线性渐隐）和底页压暗（折线内侧 16dp）。
+| 主题 | 纸背 | 透印 | 卷边投影 α | 底页压暗 α |
+|---|---|---|---|---|
+| 日间 | #ECE6DB | 0.10 | 0.18 | 0.10 |
+| 纸张 | #DFD7C3 | 0.10 | 0.20 | 0.10 |
+| 青苔 | #BFCAB5 | 0.09 | 0.20 | 0.12 |
+| 夜间 | #1E1F23 | 0.06 | 0.45 | 0.25 |
+| 深绿 | #1F3128 | 0.06 | 0.45 | 0.25 |
+| 纯黑 | #0E0E0E | 0.05 | 0.50 | 0.30 |
+| 自定 | bg 向 ink 混 6% | 0.08 | 浅 0.18 / 深 0.45 | 浅 0.10 / 深 0.25 |
+折线高光：1dp 白 @20%（深色主题 @6%）。阴影颜色统一 #000。
+
+## 8 默认排版
+design-spec.md 已改为 17sp / 行高 1.9 / 段距 0.3em / 阅读边距 20dp（与 `ReaderSettings` 默认值一致），并补了 6+1 套主题表；reader-day / reader-night / reader-settings / overview 已按新值重绘导出。

diff --git a/design/design-spec.md b/design/design-spec.md
@@ -26,16 +26,20 @@
 | 护眼纸张 | #E8E1CF | #3A362F | #9C9384 |
 | 青苔（可选） | #C9D3C0 | #2F3529 | #7A8470 |
 | 夜间 | #16171A | #B8B2A6 | #5C5A55 |
+| 深绿（代码预设，设置面板未露出） | #182820 | #B8C3B1 | #7A897A |
+| 纯黑（代码预设，设置面板未露出） | #000000 | #B8B2A6 | #5C5A55 |
+| 自定 | 用户自选，默认同日间 | | |
+> 0.3.4 核对：`ReaderTheme` 有 6 套预设 + 自定；设置面板显示前四套（日间/纸张/青苔/夜间），默认排版 17sp / 段距 0.3em / 边距 20dp。
 夜间不用纯黑纯白，降低对比避免刺眼。
 
 ## 4. 字体
-- 中文正文：思源宋体 Noto Serif CJK SC Regular，18sp，行高 1.9，首行缩进 2em，段距 0.6em；可选霞鹜文楷（楷体）、思源黑体。
+- 中文正文：思源宋体 Noto Serif CJK SC Regular，17sp，行高 1.9，首行缩进 2em，段距 0.3em；可选霞鹜文楷（楷体）、思源黑体。
 - 标题：思源宋体 SemiBold（书架大标题 28sp）。
 - UI 文字：思源黑体 Noto Sans CJK SC，12–14sp；数字可用 Inter。
 
 ## 5. 形状/间距/阴影
 - 圆角：封面 6dp；卡片 20dp；底部面板 24dp(顶)；chip 14dp；图标 112/512。
-- 间距：4dp 网格；页面边距 20dp，阅读页左右 28dp；网格间距 14/18dp。
+- 间距：4dp 网格；页面边距 20dp，阅读页左右 20dp；网格间距 14/18dp。
 - 阴影：卡片 0 2 10 rgba(60,50,30,.08)；封面 0 3 8 rgba(0,0,0,.18)；面板 0 -6 24 rgba(0,0,0,.15)。整体扁平，阴影只为层级。
 
 ## 6. 图标风格
